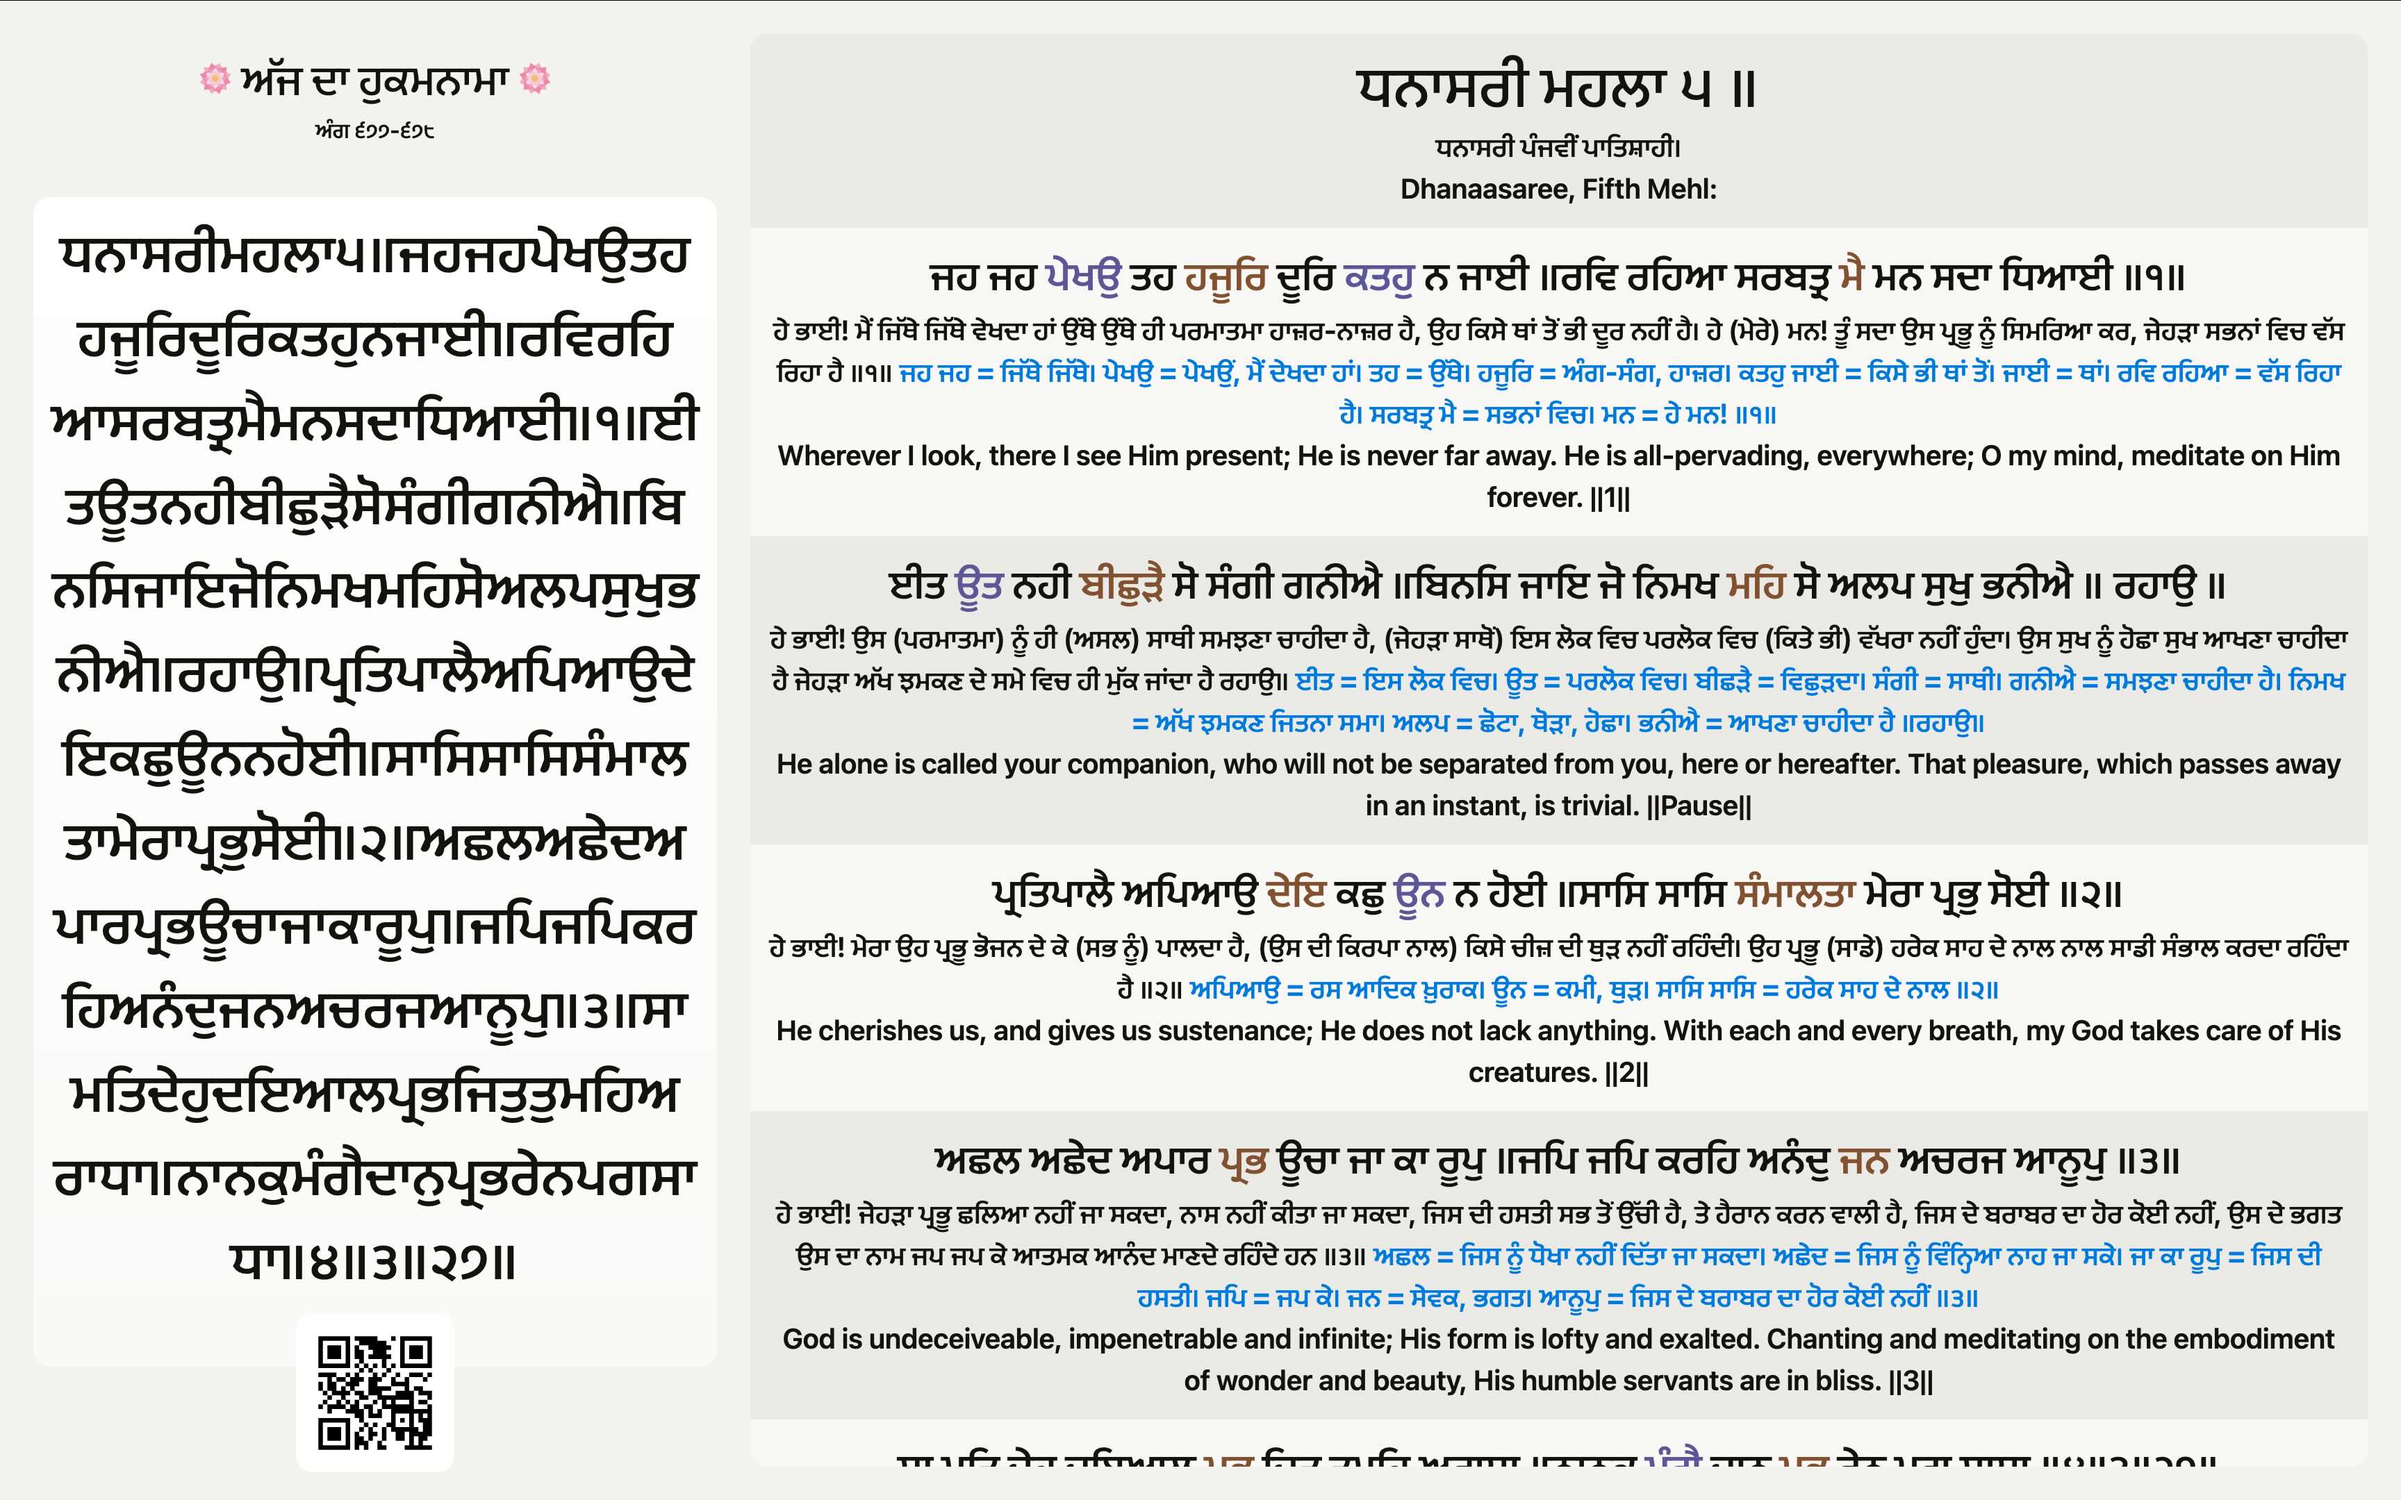
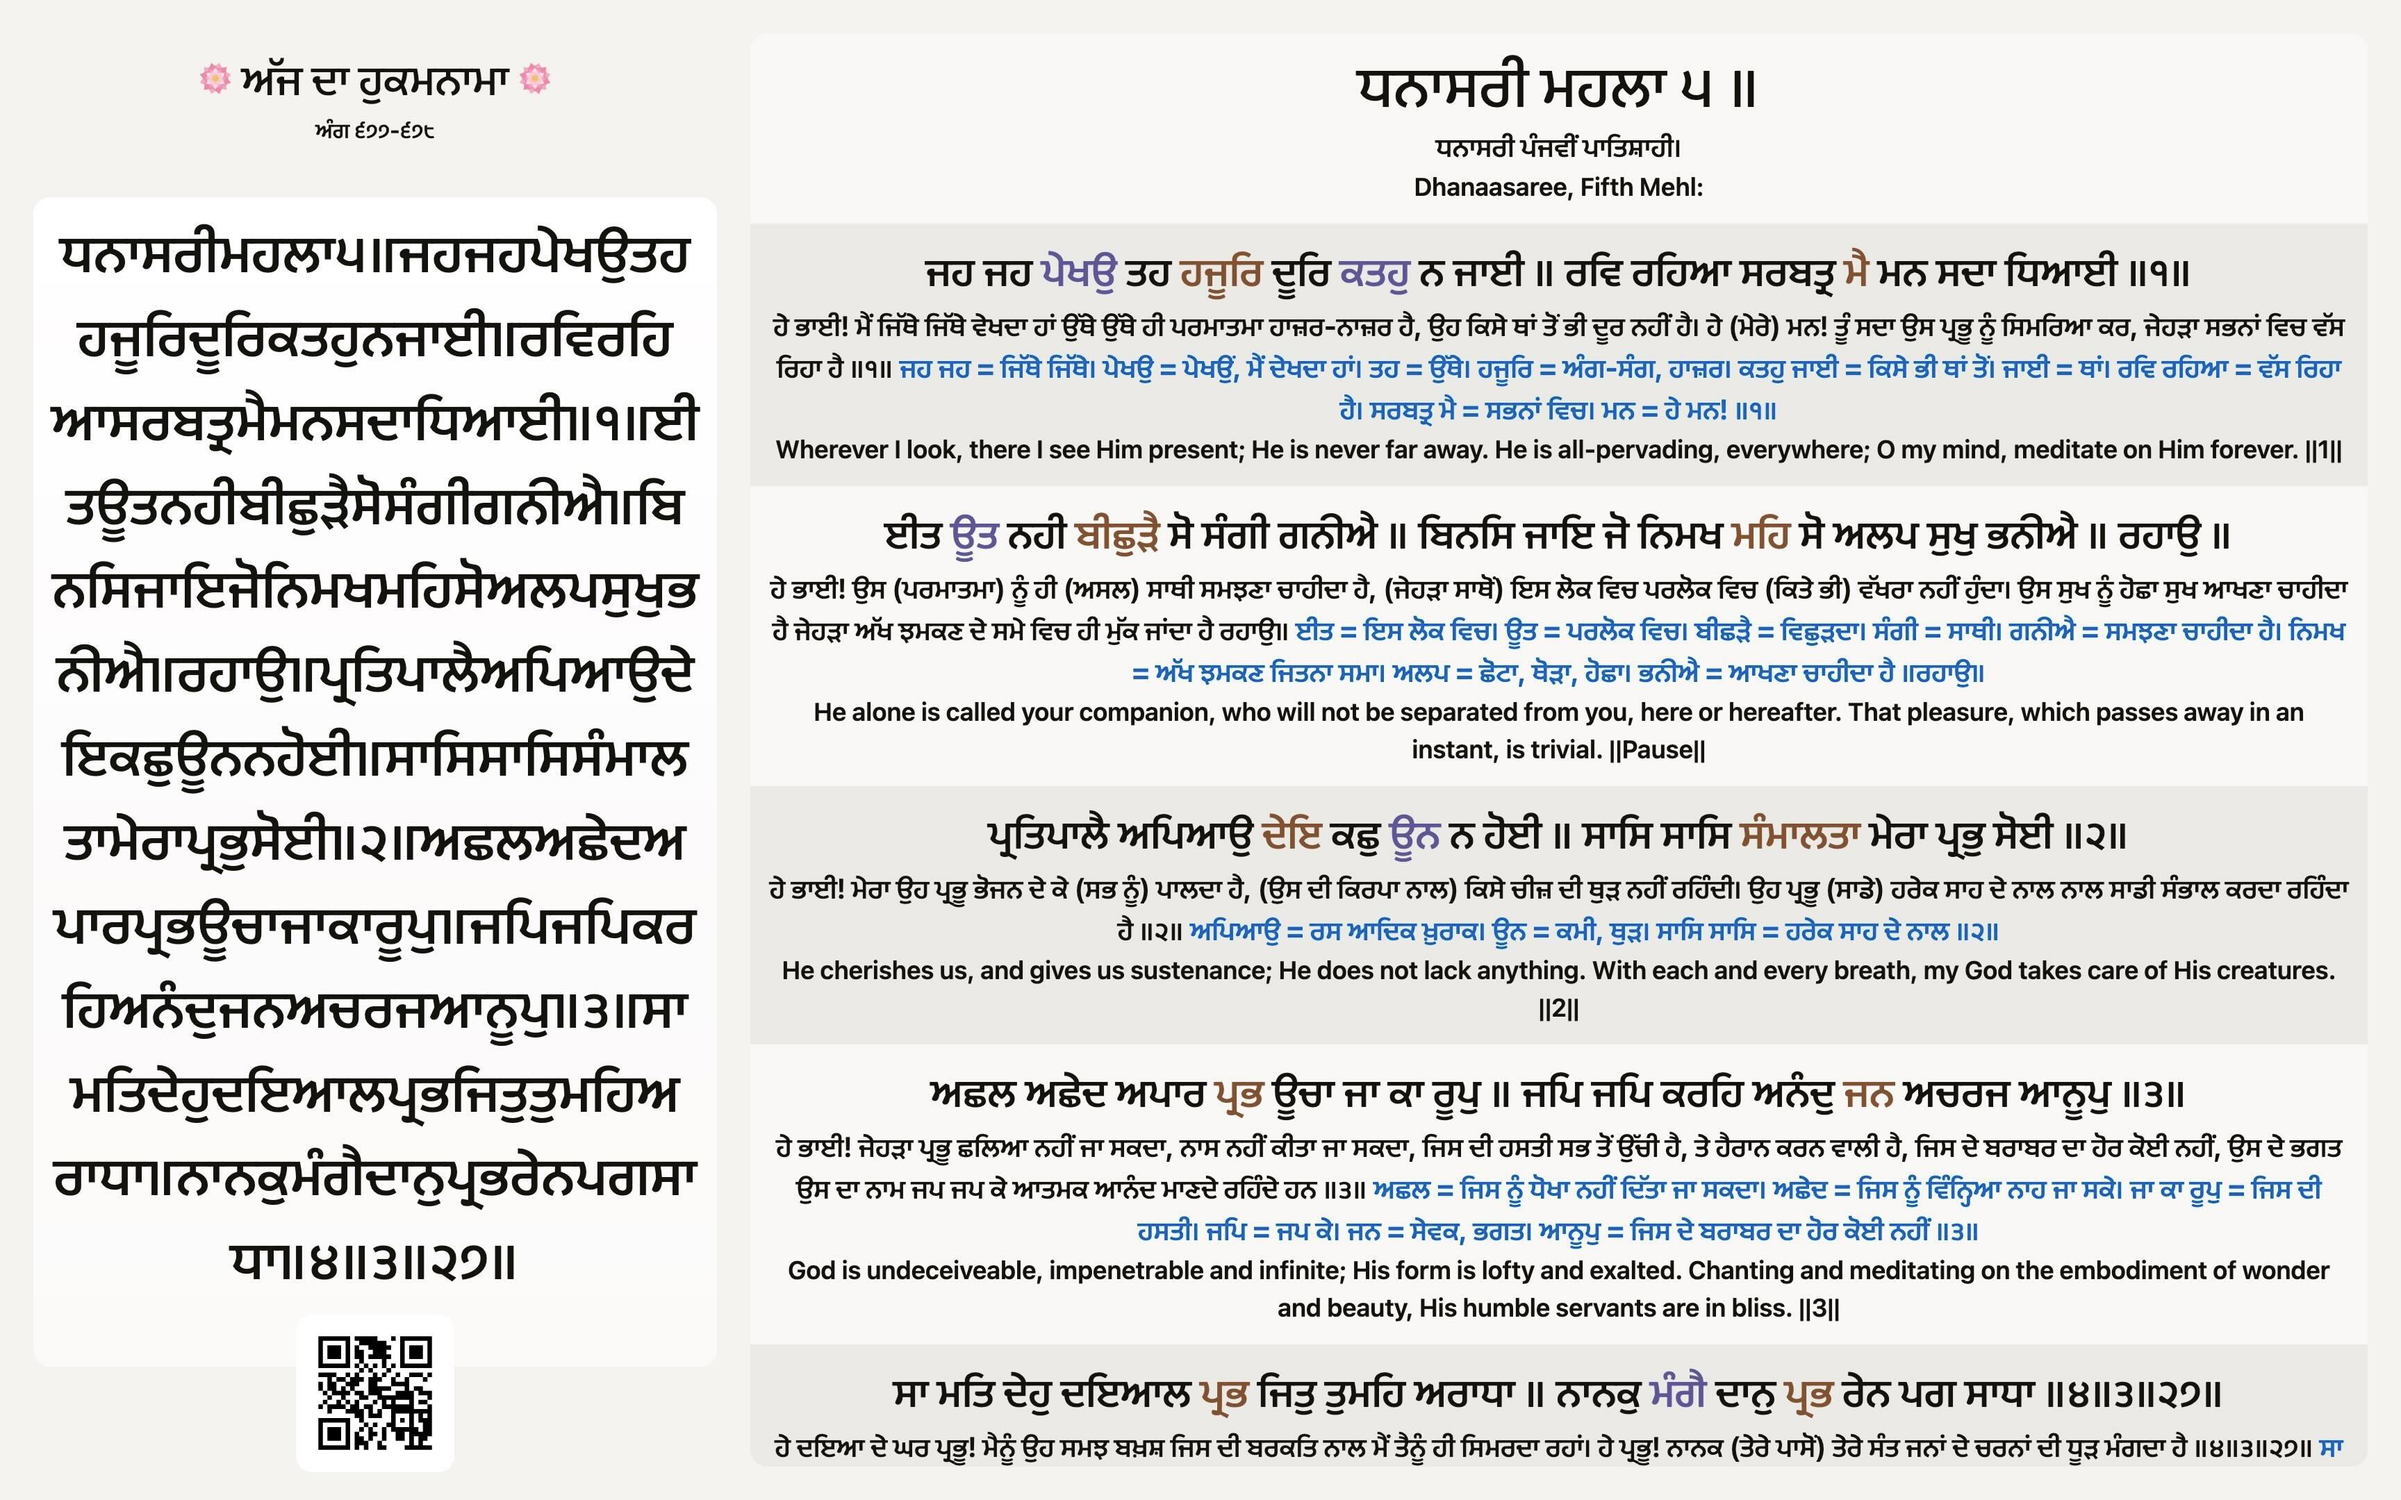
fix: add spaces to hukamnama lines and scroll predictably

Changed region(s): [[0.3125, 0.0931, 1.0, 0.9926]]

diff --git a/src/routes/hukamnama/custom/[id]/index@hukamnama.tsx b/src/routes/hukamnama/custom/[id]/index@hukamnama.tsx
@@ -162,70 +162,65 @@ export default component$(() => {
     mmWidthCount * 457 +
     mmmWidthCount * 240;
 
-  console.log(numChars);
-
   useVisibleTask$(() => {
-    const progressBar = document.querySelector('.progress-bar') as HTMLElement;
-    if (!progressBar) return;
-    const scrollFactor = 0.6;
-    const timeout = { ms: 0, default: 12000, minimum: 6000 };
-    timeout.ms = timeout.default;
+    const progressBar = document.querySelector('#progress-bar') as HTMLElement;
 
-    const doScroll = () => {
-      progressBar.style.width = '0%';
-      progressBar.style.opacity = '40%';
+    const timeout = { ms: 0, maximum: 90000, minimum: 4000 };
 
-      progressBar.animate(
-        [
-          { width: '0%', opacity: '40%' },
-          { width: '100%', opacity: '100%' },
-        ],
-        {
-          duration: timeout.ms,
-          iterations: 1,
-        },
-      );
+    const body = document.querySelector('.exposition');
+    const bodyHeight = body?.getBoundingClientRect().height;
+    const lines = body?.querySelectorAll('.line');
+    const lineInfo = { index: 0, top: 0 };
 
-      setTimeout(scrollPage, timeout.ms);
-    };
+    const animateProgressBar = () => {
+      if (progressBar) {
+        progressBar.style.width = '0%';
+        progressBar.style.opacity = '40%';
 
-    const scrollPage = () => {
-      const body = document.querySelector('.exposition');
-      const totalHeight = body!.scrollHeight;
-      const screenHeight = window.innerHeight;
-
-      if (totalHeight > screenHeight) {
-        const curPos = body!.scrollTop;
-
-        if (Math.ceil(curPos + screenHeight) >= totalHeight) {
-          body!.scrollTo({ top: 0, behavior: 'auto' });
-          timeout.ms = timeout.default;
-        } else {
-          if (
-            Math.ceil(curPos + screenHeight * scrollFactor) >=
-            totalHeight - screenHeight
-          ) {
-            const scrollDistancePercentage =
-              (totalHeight - screenHeight - curPos) /
-              screenHeight /
-              scrollFactor;
-            timeout.ms =
-              scrollDistancePercentage * timeout.default > timeout.minimum
-                ? (timeout.ms = scrollDistancePercentage * timeout.default)
-                : timeout.minimum;
-          }
-
-          body!.scrollTo({
-            top: curPos + screenHeight * scrollFactor,
-            behavior: 'smooth',
-          });
-        }
+        progressBar.animate(
+          [
+            { width: '0%', opacity: '40%' },
+            { width: '100%', opacity: '100%' },
+          ],
+          {
+            duration: timeout.ms,
+            iterations: 1,
+          },
+        );
       }
-
-      doScroll();
     };
 
-    doScroll();
+    const goNextLine = () => {
+      const scrollToNextLine = () => {
+        const currentLine = lines![lineInfo.index];
+        const gurmukhiLine = currentLine.querySelector('.bold');
+        if (progressBar) currentLine.insertBefore(progressBar!, gurmukhiLine);
+        lineInfo.top = currentLine.getBoundingClientRect().top + 2;
+        console.log(lineInfo.top);
+        const lineHeight = currentLine.getBoundingClientRect().height;
+        const factor = lineHeight > bodyHeight! ? 1 : lineHeight / bodyHeight!;
+        timeout.ms =
+          factor * timeout.maximum < timeout.minimum
+            ? timeout.minimum
+            : factor * timeout.maximum;
+
+        console.log(timeout.ms);
+
+        currentLine.scrollIntoView({ behavior: 'smooth' });
+
+        animateProgressBar();
+
+        // Increment the index or reset to 0 if at the end
+        lineInfo.index = (lineInfo.index + 1) % lines!.length;
+
+        // Schedule the next scroll
+        setTimeout(scrollToNextLine, timeout.ms);
+      };
+
+      scrollToNextLine();
+    };
+
+    goNextLine();
   });
 
   const fontSize = recommendedFontSize(numChars);
@@ -260,8 +255,8 @@ export default component$(() => {
           </div>
         </div>
         <div class='exposition'>
-          {signal.value.pb && parseInt(signal.value.pb) == 1 && (
-            <div class='progress-bar' />
+          {!(signal.value.pb && parseInt(signal.value.pb) == 0) && (
+            <div id='progress-bar' />
           )}
           {lineGroups.map((lineGroup) => (
             <Hukamnama key={1} data={lineGroup} />

diff --git a/src/routes/hukamnama/[id]/index@hukamnama.tsx b/src/routes/hukamnama/[id]/index@hukamnama.tsx
@@ -474,70 +474,65 @@ export default component$(() => {
     mmWidthCount * 457 +
     mmmWidthCount * 240;
 
-  console.log(numChars);
-
   useVisibleTask$(() => {
-    const progressBar = document.querySelector('.progress-bar') as HTMLElement;
-    if (!progressBar) return;
-    const scrollFactor = 0.6;
-    const timeout = { ms: 0, default: 12000, minimum: 6000 };
-    timeout.ms = timeout.default;
+    const progressBar = document.querySelector('#progress-bar') as HTMLElement;
 
-    const doScroll = () => {
-      progressBar.style.width = '0%';
-      progressBar.style.opacity = '40%';
+    const timeout = { ms: 0, maximum: 90000, minimum: 4000 };
 
-      progressBar.animate(
-        [
-          { width: '0%', opacity: '40%' },
-          { width: '100%', opacity: '100%' },
-        ],
-        {
-          duration: timeout.ms,
-          iterations: 1,
-        },
-      );
+    const body = document.querySelector('.exposition');
+    const bodyHeight = body?.getBoundingClientRect().height;
+    const lines = body?.querySelectorAll('.line');
+    const lineInfo = { index: 0, top: 0 };
 
-      setTimeout(scrollPage, timeout.ms);
-    };
+    const animateProgressBar = () => {
+      if (progressBar) {
+        progressBar.style.width = '0%';
+        progressBar.style.opacity = '40%';
 
-    const scrollPage = () => {
-      const body = document.querySelector('.exposition');
-      const totalHeight = body!.scrollHeight;
-      const screenHeight = window.innerHeight;
-
-      if (totalHeight > screenHeight) {
-        const curPos = body!.scrollTop;
-
-        if (Math.ceil(curPos + screenHeight) >= totalHeight) {
-          body!.scrollTo({ top: 0, behavior: 'auto' });
-          timeout.ms = timeout.default;
-        } else {
-          if (
-            Math.ceil(curPos + screenHeight * scrollFactor) >=
-            totalHeight - screenHeight
-          ) {
-            const scrollDistancePercentage =
-              (totalHeight - screenHeight - curPos) /
-              screenHeight /
-              scrollFactor;
-            timeout.ms =
-              scrollDistancePercentage * timeout.default > timeout.minimum
-                ? (timeout.ms = scrollDistancePercentage * timeout.default)
-                : timeout.minimum;
-          }
-
-          body!.scrollTo({
-            top: curPos + screenHeight * scrollFactor,
-            behavior: 'smooth',
-          });
-        }
+        progressBar.animate(
+          [
+            { width: '0%', opacity: '40%' },
+            { width: '100%', opacity: '100%' },
+          ],
+          {
+            duration: timeout.ms,
+            iterations: 1,
+          },
+        );
       }
-
-      doScroll();
     };
 
-    doScroll();
+    const goNextLine = () => {
+      const scrollToNextLine = () => {
+        const currentLine = lines![lineInfo.index];
+        const gurmukhiLine = currentLine.querySelector('.bold');
+        if (progressBar) currentLine.insertBefore(progressBar!, gurmukhiLine);
+        lineInfo.top = currentLine.getBoundingClientRect().top + 2;
+        console.log(lineInfo.top);
+        const lineHeight = currentLine.getBoundingClientRect().height;
+        const factor = lineHeight > bodyHeight! ? 1 : lineHeight / bodyHeight!;
+        timeout.ms =
+          factor * timeout.maximum < timeout.minimum
+            ? timeout.minimum
+            : factor * timeout.maximum;
+
+        console.log(timeout.ms);
+
+        currentLine.scrollIntoView({ behavior: 'smooth' });
+
+        animateProgressBar();
+
+        // Increment the index or reset to 0 if at the end
+        lineInfo.index = (lineInfo.index + 1) % lines!.length;
+
+        // Schedule the next scroll
+        setTimeout(scrollToNextLine, timeout.ms);
+      };
+
+      scrollToNextLine();
+    };
+
+    goNextLine();
   });
 
   const fontSize = recommendedFontSize(numChars);
@@ -572,7 +567,7 @@ export default component$(() => {
           </div>
         </div>
         <div class='exposition'>
-          {signal.value.pb && parseInt(signal.value.pb) == 1 && (
+          {!(signal.value.pb && parseInt(signal.value.pb) == 0) && (
             <div class='progress-bar' />
           )}
           {lineGroups.map((lineGroup) => (

diff --git a/src/components/hukamnama/hukamnama.tsx b/src/components/hukamnama/hukamnama.tsx
@@ -54,45 +54,44 @@ export default component$(({ data }: any) => {
   return (
     <>
       {combinedRemapped.map((line: any, index: number) => {
-        const lines = Array.isArray(line[0].src) ? line[0].src : [line[0].src];
+        const src = Array.isArray(line[0].src) ? line[0].src : [line[0].src];
         return (
           <div key={index} class={`line ${line[0].title ? 'first' : ''}`}>
-            <div>
-              <p>
-                {lines.map((ln: any) => (
-                  <span class={`bold ${line[0].title ? 'title' : ''}`} key={1}>
-                    {ln.split(' ').map((word: string, index: number) => {
-                      const betweenWords = index === 0 ? '' : ' ';
-                      const className = word.endsWith(';')
-                        ? 'heavy'
-                        : word.endsWith(',')
-                        ? 'medium'
-                        : word.endsWith('.')
-                        ? 'light'
-                        : '';
-                      const wordContent = [';', ',', '.'].some((char) =>
-                        word.endsWith(char),
-                      )
-                        ? word.slice(0, -1)
-                        : word;
+            <p class={`bold ${line[0].title ? 'title' : ''}`}>
+              {src
+                .join(' ')
+                .split(' ')
+                .map((word: string, index: number) => {
+                  const betweenWords = index === 0 ? '' : ' ';
+                  const className = word.endsWith(';')
+                    ? 'heavy'
+                    : word.endsWith(',')
+                    ? 'medium'
+                    : word.endsWith('.')
+                    ? 'light'
+                    : '';
+                  const wordContent = [';', ',', '.'].some((char) =>
+                    word.endsWith(char),
+                  )
+                    ? word.slice(0, -1)
+                    : word;
 
-                      return (
-                        <>
-                          {betweenWords}
-                          <span class={className}>{wordContent}</span>
-                        </>
-                      );
-                    })}
-                  </span>
-                ))}
-              </p>
-            </div>
-            <div>
-              <p>
-                {line[0].Guru} <span class='notes'>{line[0].notes}</span>
-              </p>
-              <p>{line[0].en}</p>
-            </div>
+                  return (
+                    <>
+                      {betweenWords}
+                      {className === '' ? (
+                        wordContent
+                      ) : (
+                        <span class={className}>{wordContent}</span>
+                      )}
+                    </>
+                  );
+                })}
+            </p>
+            <p class='panjabi'>
+              {line[0].Guru} <span class='notes'>{line[0].notes}</span>
+            </p>
+            <p class='english'>{line[0].en}</p>
           </div>
         );
       })}

diff --git a/src/routes/hukamnama.css b/src/routes/hukamnama.css
@@ -67,11 +67,11 @@ p {
   font-weight: 600;
 }
 
-.progress-bar {
-  --progress-bar-size: 4px;
+#progress-bar {
+  --progress-bar-size: 3px;
   opacity: 0.4;
-  position: sticky;
-  top: 0;
+  position: relative;
+  top: -0.75rem;
   height: var(--progress-bar-size);
   border-radius: var(--progress-bar-size);
   width: 0%;

diff --git a/src/components/hukamnama/hukamnama.css b/src/components/hukamnama/hukamnama.css
@@ -27,6 +27,15 @@ div {
   color: var(--light-vishraam);
 }
 
+.panjabi,
+.english {
+  font-weight: 600;
+}
+
 .notes {
-  color: var(--ui);
+  color: var(--link);
+}
+
+.english {
+  font-size: 0.9em;
 }
